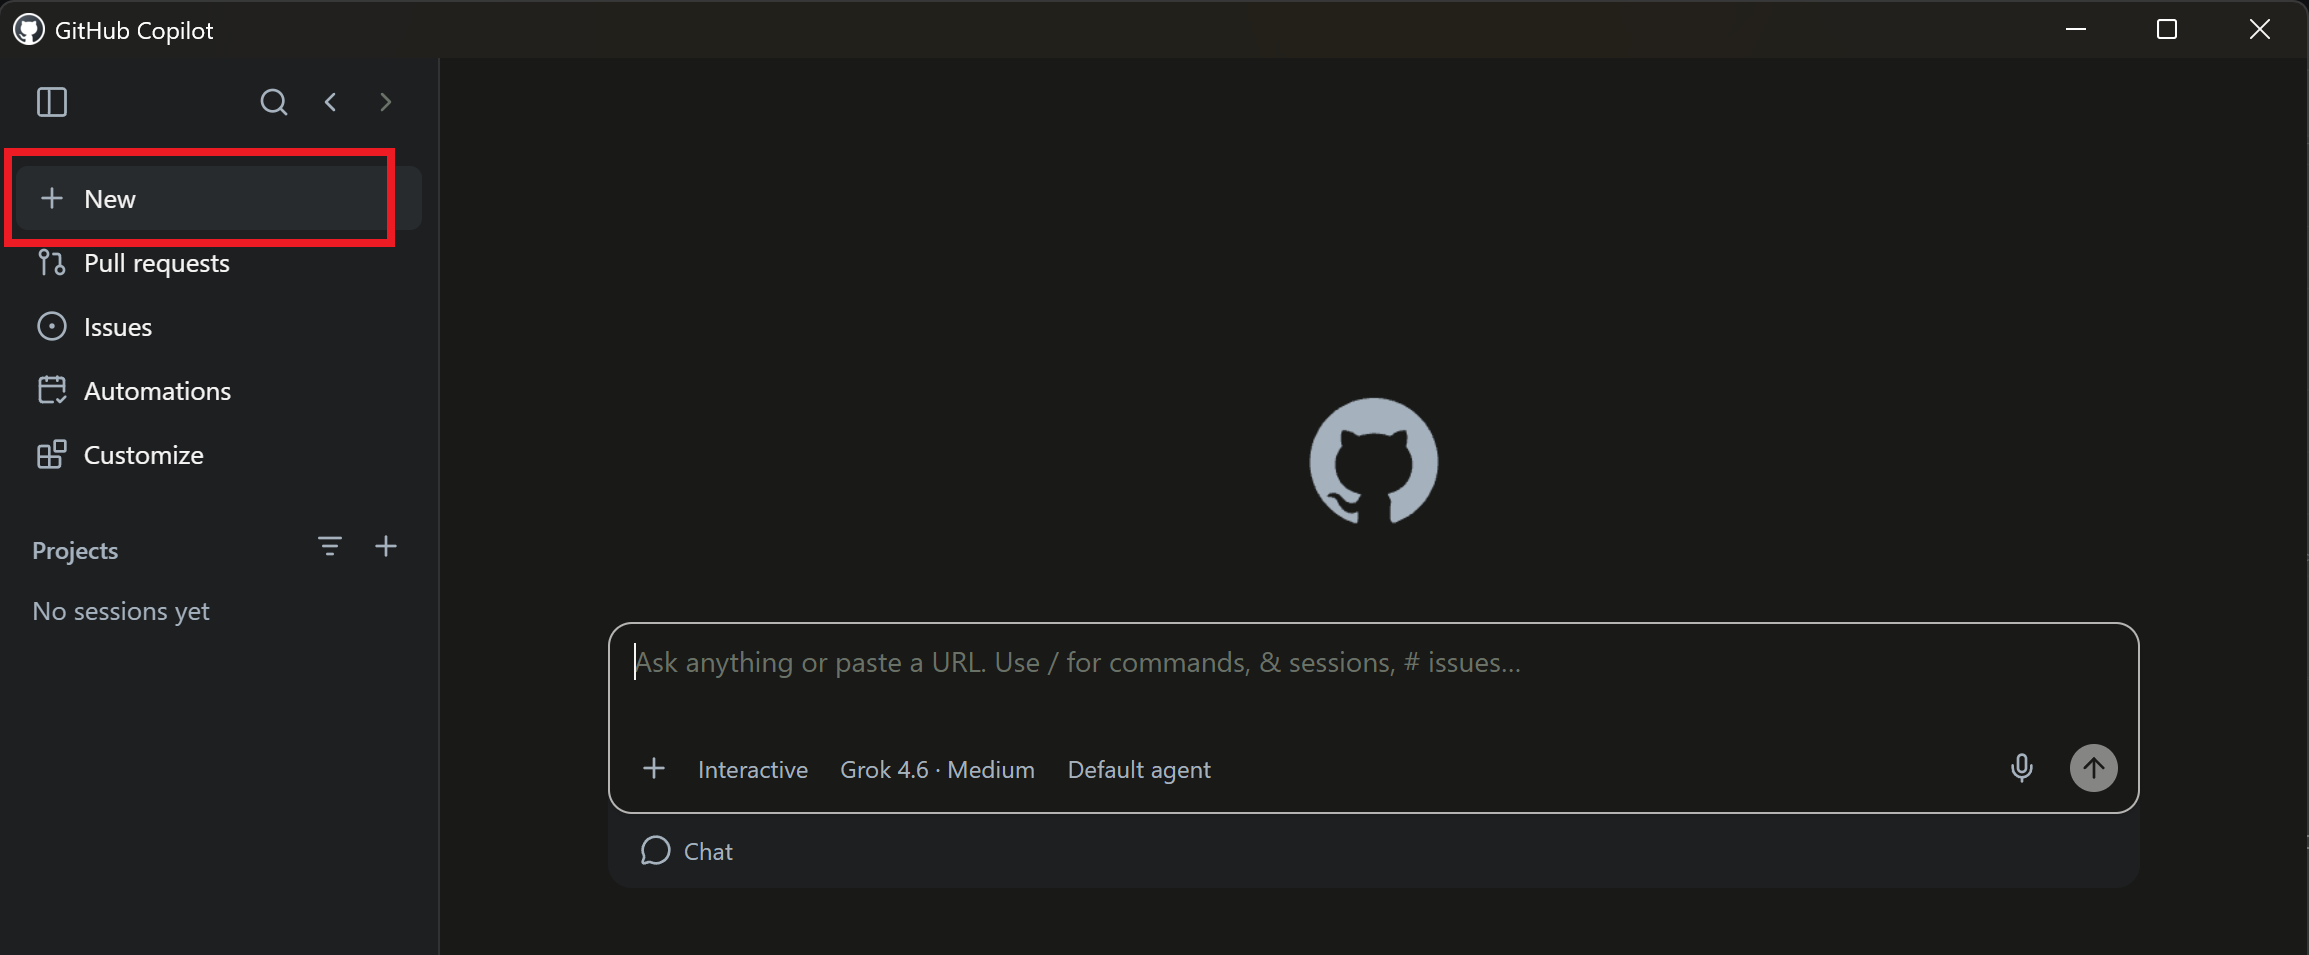
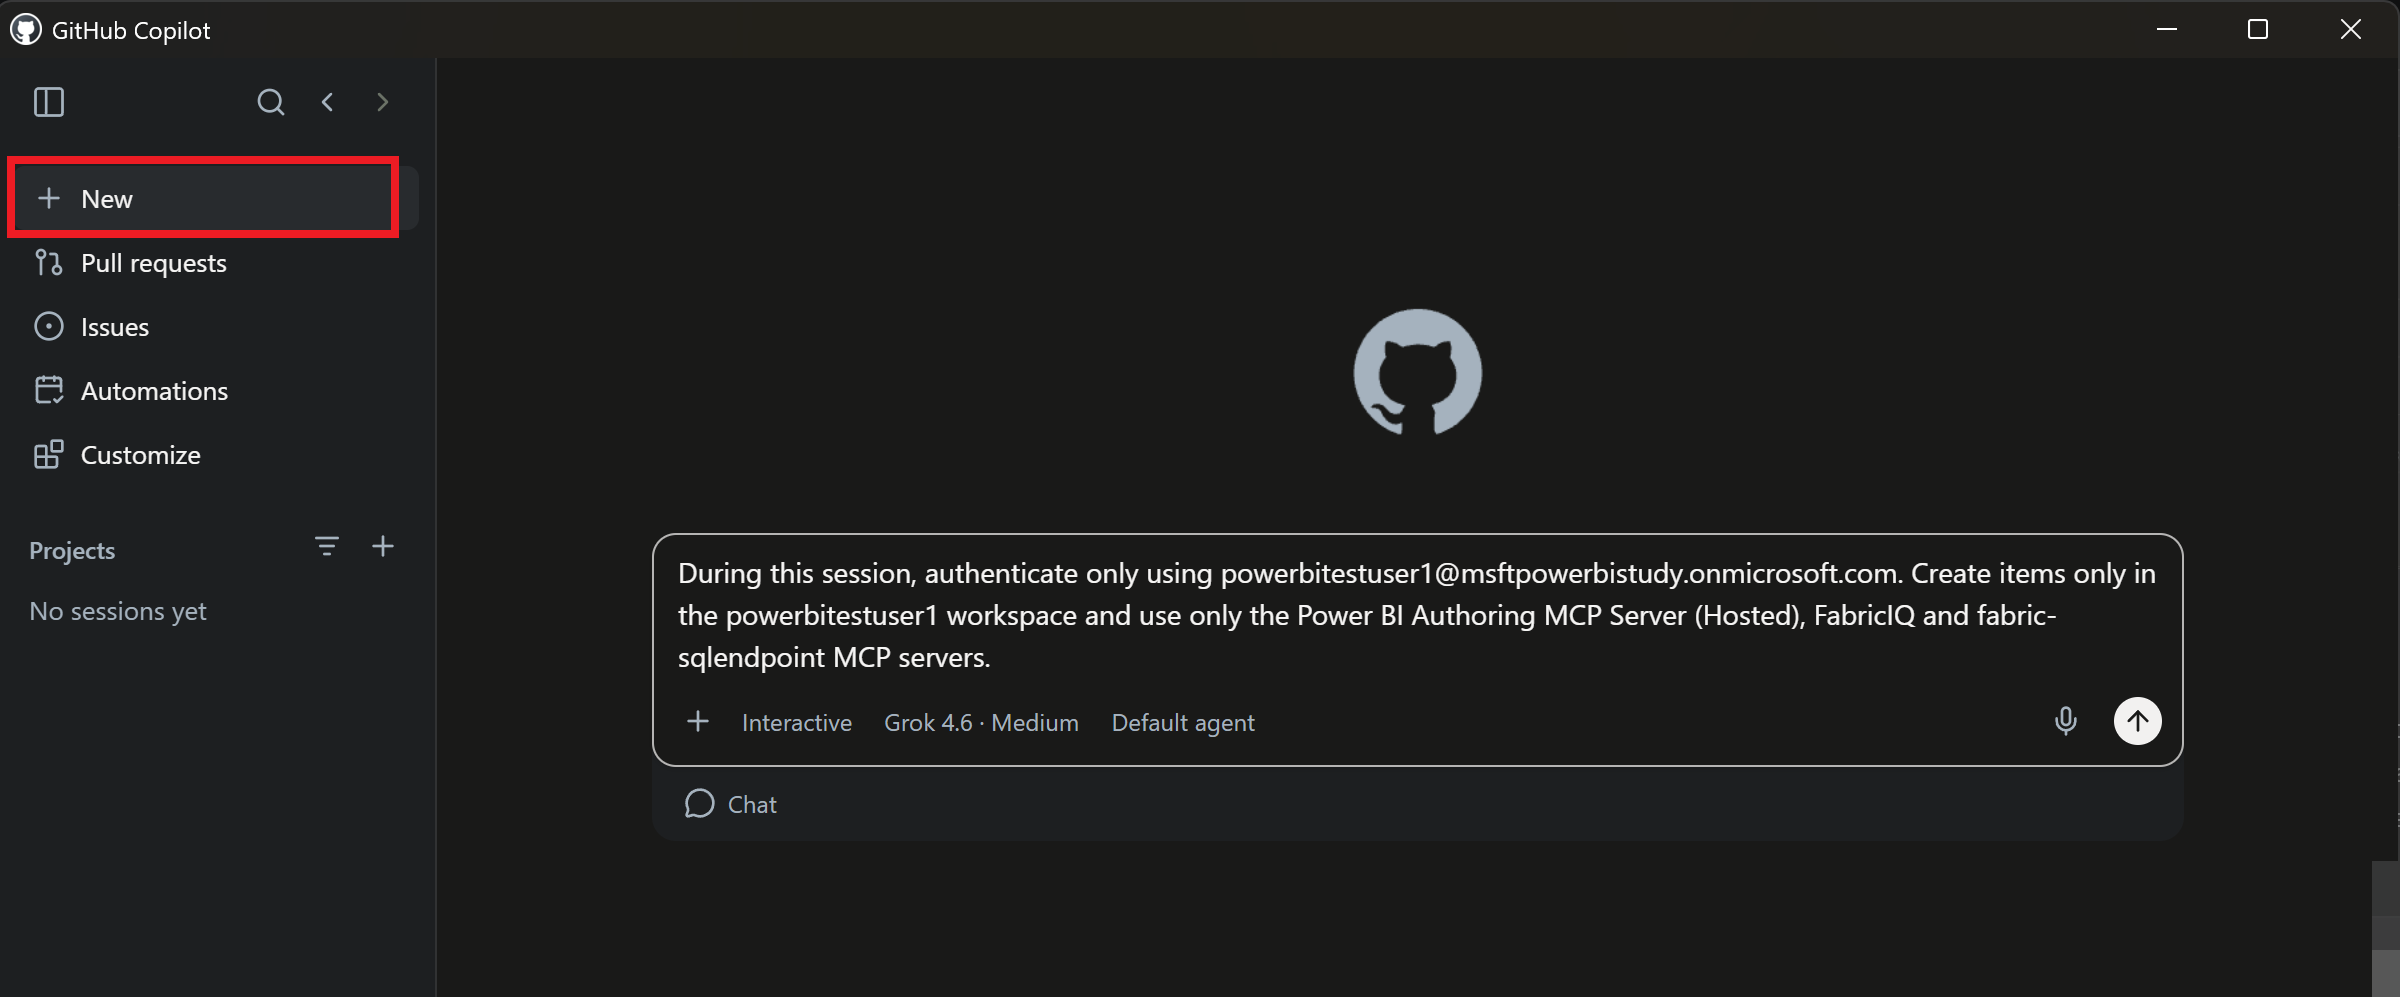
Update Fabric and Copilot study guidance

diff --git a/study-instructions-ai.md b/study-instructions-ai.md
@@ -2,7 +2,7 @@
 
 ### Sign into Fabric
 
-Go to [Power BI](https://app.powerbi.com) and sign in with the Entra ID account provided for the study. It will follow the following format.
+Go to [Fabric](https://app.fabric.com) and sign in with the Entra ID account provided for the study. It will follow the following format.
 
 `powerbitestuser<USER_NUMBER>@msftpowerbistudy.onmicrosoft.com`
 
@@ -55,22 +55,15 @@ The MCP servers should have a green checkmark to show they are connected using y
 
 ### Create semantic model using AI
 
-<!--
-Take the following prompt text and replace the login and workspace names with the ones provided to you for this study. In GitHub Copilot App, start by entering the text so start a Copilot session. This is a safeguard to avoid cached credentials to other tenants,  associated previous Copilot usage patterns and/or other previously installed MCP servers or plugins.
+Click New to start a new Copilot chat session. Enter the following prompt text. This is a safeguard to avoid cached credentials to other tenants,  associated previous Copilot usage memory and/or other previously installed MCP servers or plugins. Remember to replace `USER_NUMBER` to match the login provided in your study invitation.
 
 ```text
-During this session, authenticate only using powerbitestuser1@msftpowerbistudy.onmicrosoft.com. Create items only in the powerbitestuser1 workspace and use only the following MCP servers.
-- Power BI Authoring MCP Server (Hosted)
-- FabricIQ
-- fabric-sqlendpoint
+During this session, authenticate only using powerbitestuser<USER_NUMBER>@msftpowerbistudy.onmicrosoft.com. Create items only in the powerbitestuser<USER_NUMBER> workspace and use only the Power BI Authoring MCP Server (Hosted), FabricIQ and fabric-sqlendpoint MCP servers.
 ```
--->
-
-Click New to start a new Copilot chat session.
 
 ![gh-app-plugin-installed](resources/img/new-copilot-chat.png)
 
-Using the same Copilot session, create a semantic model called **ZavaSemanticModel-AI** based on the the [Semantic Model Requirements](semantic-model-and-query-requirements.md#semantic-model-requirements).
+Create a semantic model called **ZavaSemanticModel-AI** based on the the [Semantic Model Requirements](semantic-model-and-query-requirements.md#semantic-model-requirements).
 
 Once the model is created, create and execute queries based on the [Query Requirements](semantic-model-and-query-requirements.md#query-requirements). Place queries and results (copy/paste tables or screenshots) into a Word document with name as follows to be returned to your Microsoft study contact. Remember to replace `USER_NUMBER` to match the login provided in your study invitation.
 

diff --git a/study-instructions-manual.md b/study-instructions-manual.md
@@ -2,7 +2,7 @@
 
 ### Sign into Fabric
 
-Go to [Power BI](https://app.powerbi.com) and sign in with the Entra ID account provided for the study. It will follow the following format.
+Go to [Fabric](https://app.fabric.com) and sign in with the Entra ID account provided for the study. It will follow the following format.
 
 `powerbitestuser<USER_NUMBER>@msftpowerbistudy.onmicrosoft.com`
 
